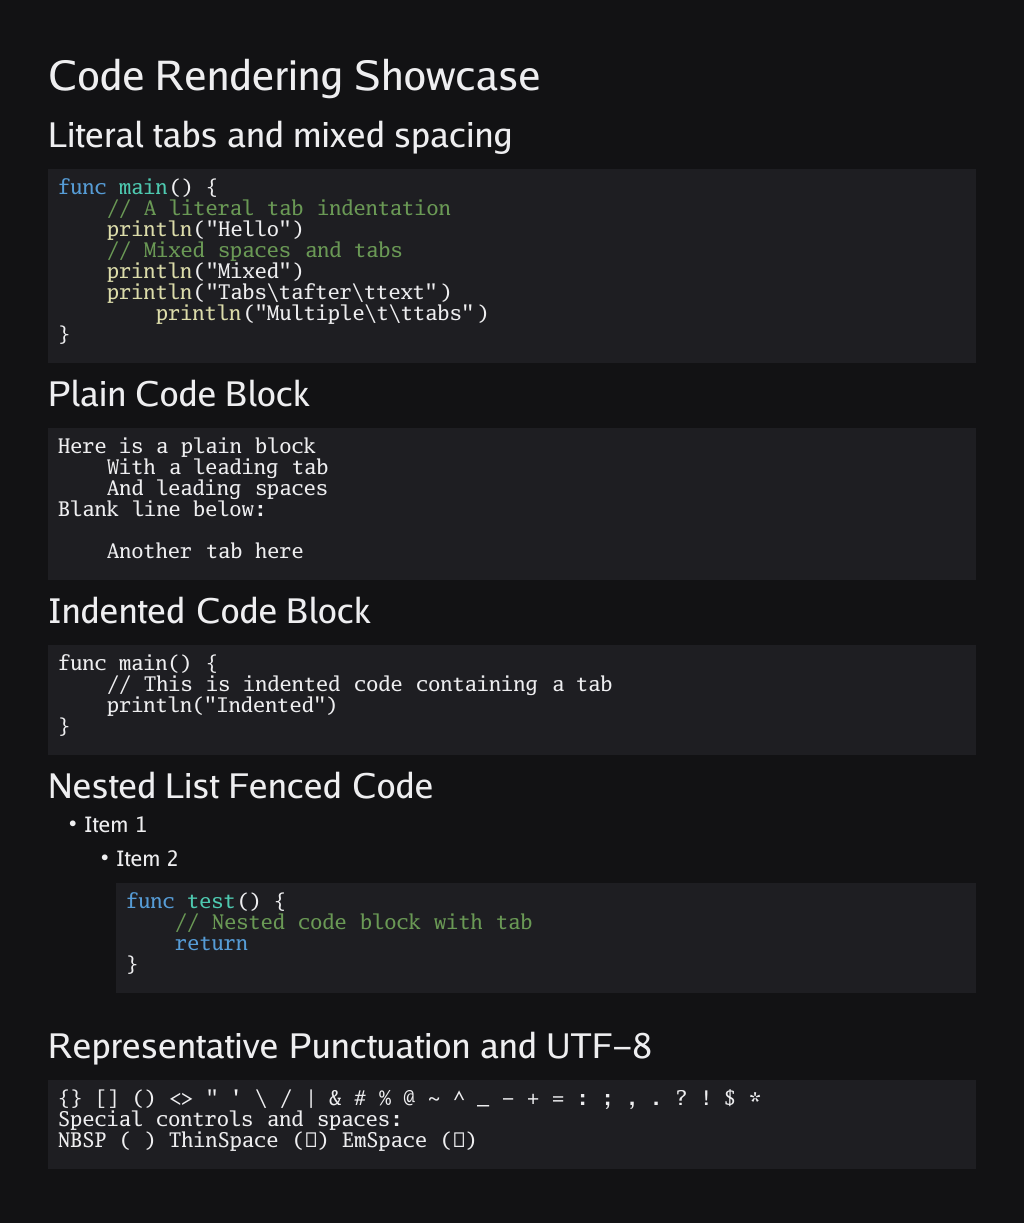
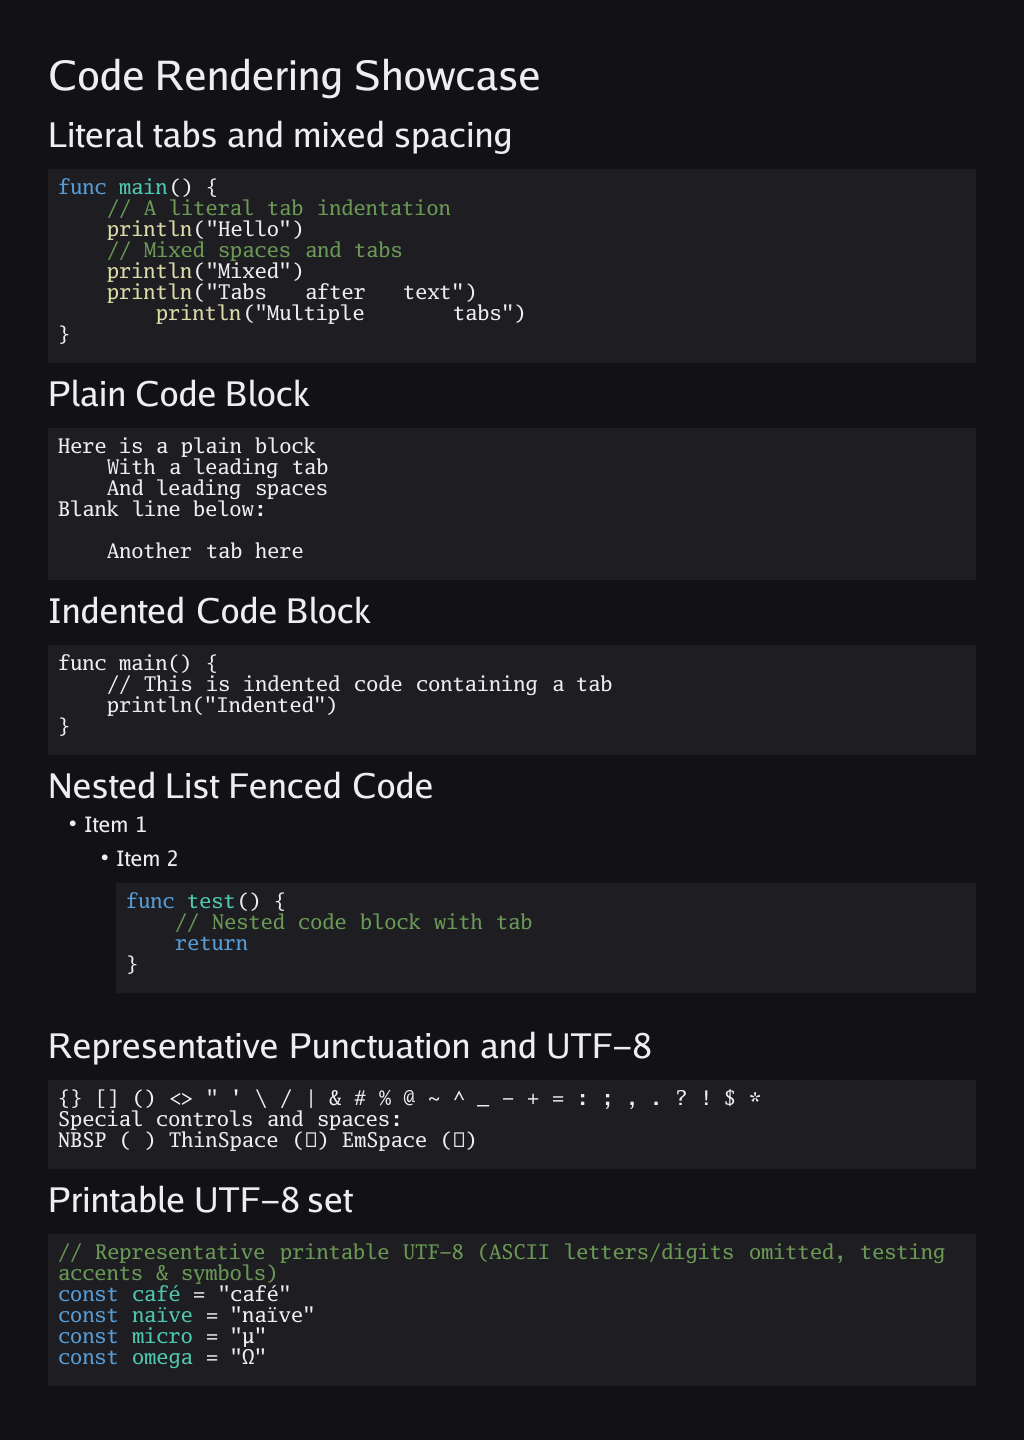
address PR comments on tab handling and tests

diff --git a/internal/cli/cli_test.go b/internal/cli/cli_test.go
@@ -122,3 +122,28 @@ func TestCLITableFitWidthEndToEnd(t *testing.T) {
 		t.Fatalf("Library width %d did not match CLI width %d", resLibrary.Image.Bounds().Dx(), resCLI.Image.Bounds().Dx())
 	}
 }
+
+func TestConvertCommandArgsToRenderOptions_CodeTabWidth(t *testing.T) {
+	tests := []struct {
+		name         string
+		codeTabWidth *int
+		expected     int
+	}{
+		{"nil defaults to 4", nil, 4},
+		{"zero defaults to 4", ptrInt(0), 4},
+		{"negative defaults to 4", ptrInt(-1), 4},
+		{"positive uses value", ptrInt(8), 8},
+	}
+
+	for _, tt := range tests {
+		t.Run(tt.name, func(t *testing.T) {
+			opts, err := ConvertCommandArgsToRenderOptions(nil, nil, nil, nil, nil, nil, nil, nil, nil, nil, nil, nil, nil, tt.codeTabWidth, "")
+			if err != nil {
+				t.Fatalf("unexpected error: %v", err)
+			}
+			if opts.CodeTabWidth != tt.expected {
+				t.Errorf("expected CodeTabWidth %d, got %d", tt.expected, opts.CodeTabWidth)
+			}
+		})
+	}
+}

diff --git a/md2png.go b/md2png.go
@@ -450,7 +450,7 @@ func (r *renderer) plainCodeSpans(text string, th Theme) [][]codeSpan {
 	if len(lines) == 0 {
 		lines = append(lines, []codeSpan{})
 	}
-	return normalizeCodeSpans(lines, r.opts.CodeTabWidth)
+	return lines
 }
 
 func (r *renderer) tokenizeCodeBlock(text, lang string, th Theme, disableHighlight bool) [][]codeSpan {

diff --git a/testdata/code_rendering_showcase.md b/testdata/code_rendering_showcase.md
@@ -8,8 +8,8 @@ func main() {
 	println("Hello")
     // Mixed spaces and tabs
 	println("Mixed")
-	println("Tabs\tafter\ttext")
-		println("Multiple\t\ttabs")
+	println("Tabs	after	text")
+		println("Multiple		tabs")
 }
 ```
 
@@ -48,4 +48,13 @@ Blank line below:
 {} [] () <> " ' \ / | & # % @ ~ ^ _ - + = : ; , . ? ! $ *
 Special controls and spaces:
 NBSP ( ) ThinSpace ( ) EmSpace ( )
+```
+
+## Printable UTF-8 set
+```go
+// Representative printable UTF-8 (ASCII letters/digits omitted, testing accents & symbols)
+const café = "café"
+const naïve = "naïve"
+const micro = "µ"
+const omega = "Ω"
 ```
